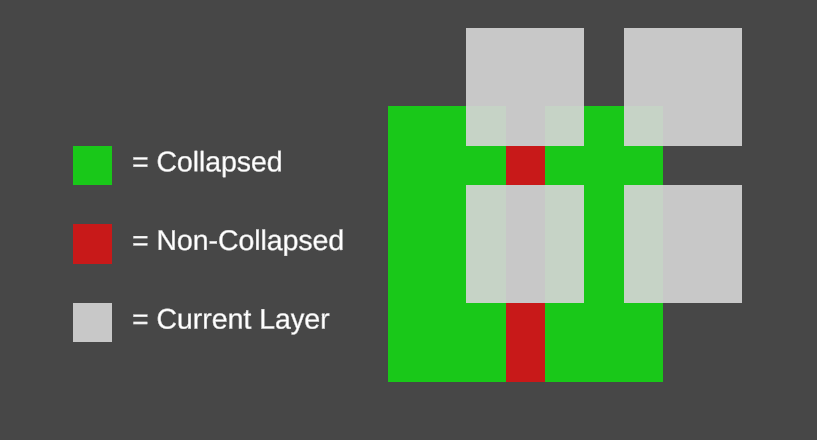
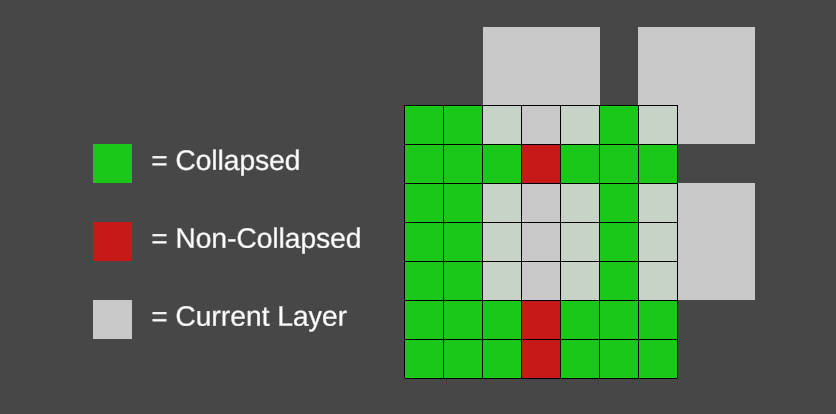
readme update

diff --git a/README.md b/README.md
@@ -60,11 +60,24 @@ The biggest drawback is that, because of the layers and the overlapping chunks, 
 ## My Approach
 
 Because of this wasted work, I tried to modify the approach in a way that the algorithm would avoid doing work that would later be discarded.\
-My approach still divides the grid into chunks separated by a gap. The first pass collapses each chunk normally. Then, in the next pass, the algorithm shifts the chunks upward by the size of the gap, so that they just cover the gap connecting the two chunks of the first pass, and overlapping only the one chunk of their previous layer.\
-Here in BorisTheBrave's approach the new chunk in the new layer would overlap two chunks of the old layer, in my approach each new chunk only overlaps one chunk.\
-Another difference is that the algorithm doesn't uncollapse the overlapping nodes, instead, the algorithm will only need to collapse the nodes that have not already been collapsed.\
-As a result, the gap connecting the two chunks in the first pass will now be collapsed.\
-the algorithm will repeat this process two more times by switching the chunk to the right on the third pass and downward on the fourth and final pass.
+We first divide the grid in chunks, we then take a smaller part of the chunk, a sub chunk, this smaller part is the collapsing part of the chunk.\
+The result will look something like this:
+
+![WFC My Approach First Pass](./Images/WFCMyApproach1Pass.png)
+
+When the sub chunk have done collapsing, the algorithm will then shift the sub chunks upward until they cover the edge of their chunk, this will result in the sub chunk of the new pass now overlapping the sub chunk of the previous pass without going over and overlapping sub chunks of other chunks.
+
+![WFC My Approach Second Pass](./Images/WFCMyApproach2Pass.png)
+
+The sub chunks are then collapsed once again without uncollapsing the overlapping nodes, the algorithm will instead skip any node that is already collapsed from a previous pass. At the end of the pass we can see that some of the chunks will now look connected:
+
+![WFC My Approach Third Pass](./Images/WFCMyApproach3Pass.png)
+
+This process is also repeated 2 more times. In the third pass the sub chunks will shift to the left, and in the fourth and final pass the sub chunks will shift downward.
+
+![WFC My Approach Fourth Pass](./Images/WFCMyApproach4Pass.png)
+
+![WFC My Approach Result](./Images/WFCMyApproachResult.png)
 
 The result is a multithreaded WFC approach that aims to minimize redundant work while still allowing the chunks to be processed in parallel.
 
@@ -320,11 +333,15 @@ This kernel's job is to simply check each node of each chunk, and see if they ar
 
 ## Performance
 
-| Grid Size | Single Threaded | Multi Threaded |
-| --- | ---: | ---: |
-| 50x50 | 80ms | 435ms |
-| 100x100 | 318ms | 647ms |
-| 150x150 | 673ms | 835ms |
-| 200x200 | 1234ms | 1058ms |
-| 300x300 | 2865ms | 1695ms |
-| 400x400 | 5193ms | 2840ms |
+If we compare the performance of the single threaded version of the algorithm with the multi threaded approach, we can see that the single threaded version is actually more preferable on smaller grids, but as the grid becomes bigger and the amount of work increases, the multi threaded approach becomes faster.
+
+| Grid Size | Single Threaded | Multi Threaded | Speed Up |
+| --- | ---: | ---: | ---: |
+| 50x50 | 80ms | 435ms | 0.18x |
+| 100x100 | 318ms | 647ms | 0.49x |
+| 150x150 | 673ms | 835ms | 0.81x |
+| 200x200 | 1234ms | 1058ms | 1.17x |
+| 300x300 | 2865ms | 1695ms | 1.69x |
+| 400x400 | 5193ms | 2840ms | 1.83x |
+
+*Note: The comparison was made without keeping track of the time it takes for Unity to instantiate all of the game objects at once in the multithreaded approach, if we keep track of it, then the multithreaded approach will result slightly slower than the single threaded approach.
